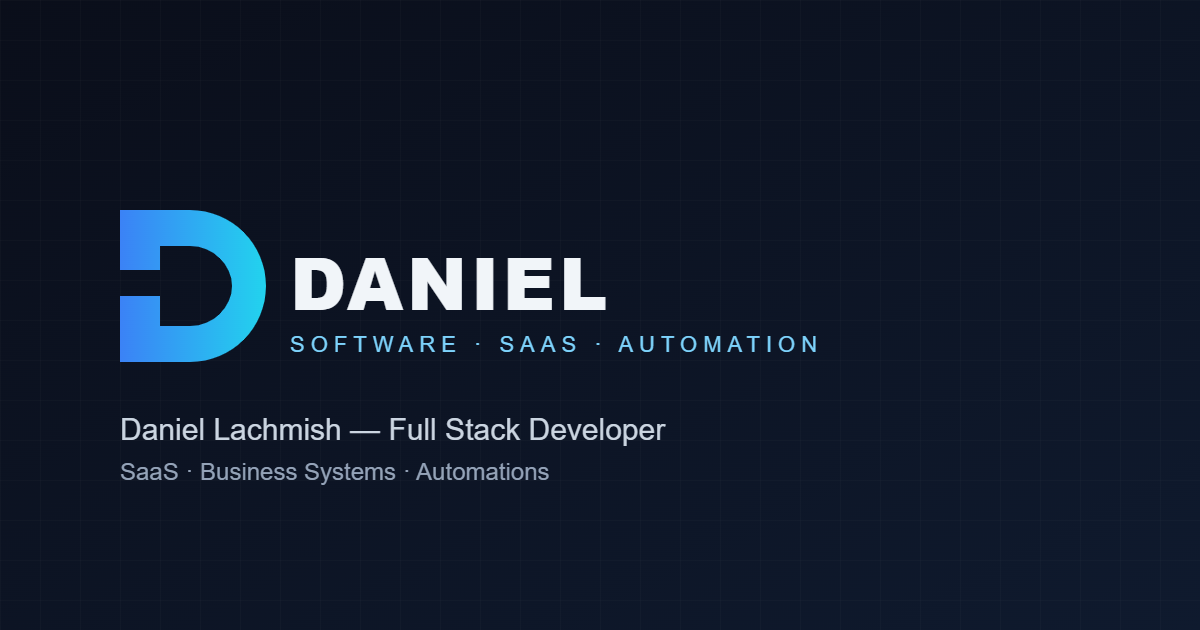
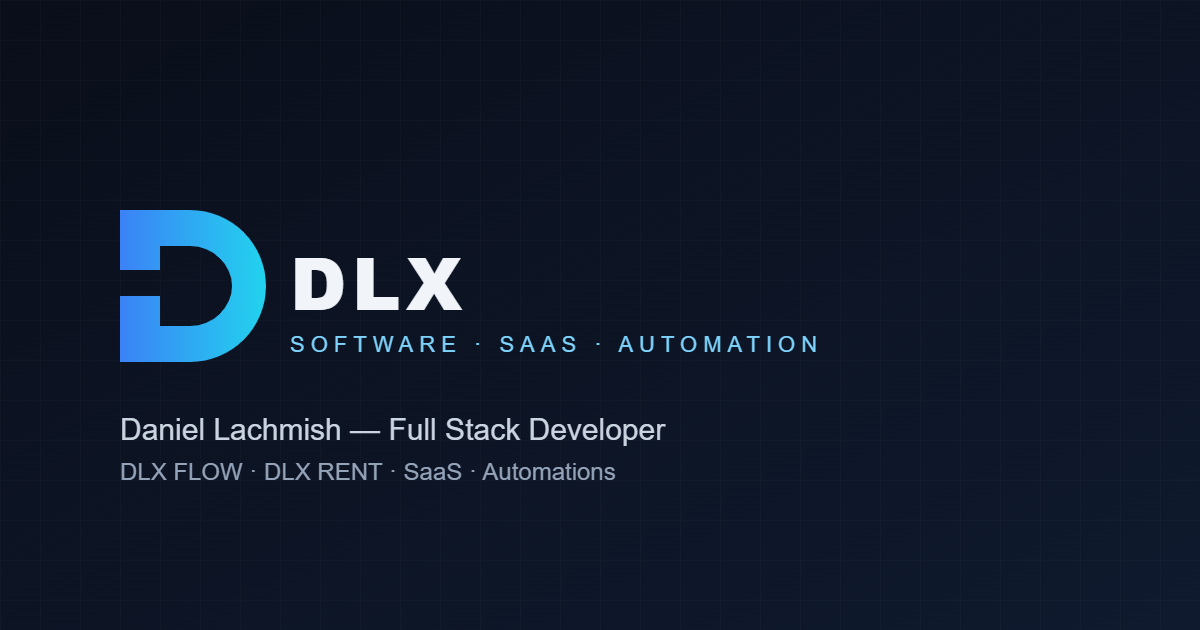
מיתוג מחדש ל-DLX: DLX FLOW ו-DLX RENT
- המותג באתר: DANIEL → DLX (לוגו, כותרת, OG, פוטר, מדיניות פרטיות).
  Daniel Lachmish נשאר כשם המייסד; Schema.org: Person שעובד ב-DLX.
- אלדין → DLX FLOW.
- נוסף DLX RENT (ניהול השכרת רכב) עם קישור ל-rentcore.co.il —
  התיאור לקוח רק מהאתר הפומבי של המערכת; בלי טכנולוגיות (לא פורסמו),
  והמודאל מסתיר את סעיף הטכנולוגיות כשאין.
- עליי: משפט שמסביר את שיטת השמות של DLX.
- תמונת שיתוף חדשה (DLX) + ?v=2 כדי לרענן מטמון ברשתות; ?v=5 לקבצים.

Changed region(s): [[0.2775, 0.3921, 0.5242, 0.5127], [0.0925, 0.7238, 0.5242, 0.7841]]

diff --git a/index.html b/index.html
@@ -3,34 +3,34 @@
 <head>
 <meta charset="UTF-8">
 <meta name="viewport" content="width=device-width, initial-scale=1.0">
-<title>Daniel Lachmish | פיתוח מערכות SaaS, מערכות עסקיות ואוטומציות</title>
-<meta name="description" content="Daniel Lachmish — מפתח Full Stack שבונה מערכות SaaS, מערכות עסקיות ואוטומציות לעסקים. פתרונות תוכנה שמחברים בין טכנולוגיה לתוצאות עסקיות.">
-<meta name="keywords" content="פיתוח תוכנה, מערכות SaaS, מערכות עסקיות, אוטומציות, Full Stack Developer, פיתוח אתרים, אינטגרציות">
+<title>DLX | פיתוח מערכות SaaS, מערכות עסקיות ואוטומציות — Daniel Lachmish</title>
+<meta name="description" content="DLX — מערכות תוכנה לעסקים מאת Daniel Lachmish: מערכות SaaS, מערכות עסקיות, אתרים ואוטומציות, כולל DLX FLOW ו-DLX RENT.">
+<meta name="keywords" content="DLX, DLX FLOW, DLX RENT, פיתוח תוכנה, מערכות SaaS, מערכות עסקיות, אוטומציות, Full Stack Developer, פיתוח אתרים, אינטגרציות">
 <meta name="author" content="Daniel Lachmish">
 <link rel="canonical" href="https://danielachmish.com/">
 
 <!-- Open Graph -->
 <meta property="og:type" content="website">
 <meta property="og:locale" content="he_IL">
-<meta property="og:title" content="Daniel Lachmish | פיתוח מערכות SaaS, מערכות עסקיות ואוטומציות">
+<meta property="og:title" content="DLX | פיתוח מערכות SaaS, מערכות עסקיות ואוטומציות">
 <meta property="og:description" content="אני בונה מערכות תוכנה שהופכות תהליכים מורכבים לפשוטים יותר. SaaS, מערכות עסקיות, אתרים ואוטומציות.">
-<meta property="og:image" content="https://danielachmish.com/assets/og-image.png">
+<meta property="og:image" content="https://danielachmish.com/assets/og-image.png?v=2">
 <meta property="og:image:width" content="1200">
 <meta property="og:image:height" content="630">
 <meta property="og:url" content="https://danielachmish.com/">
-<meta property="og:site_name" content="DANIEL">
+<meta property="og:site_name" content="DLX">
 
 <!-- Twitter -->
 <meta name="twitter:card" content="summary_large_image">
-<meta name="twitter:title" content="Daniel Lachmish | SaaS · מערכות עסקיות · אוטומציות">
+<meta name="twitter:title" content="DLX | SaaS · מערכות עסקיות · אוטומציות">
 <meta name="twitter:description" content="אני בונה מערכות תוכנה שהופכות תהליכים מורכבים לפשוטים יותר.">
-<meta name="twitter:image" content="https://danielachmish.com/assets/og-image.png">
+<meta name="twitter:image" content="https://danielachmish.com/assets/og-image.png?v=2">
 
 <link rel="icon" type="image/svg+xml" href="assets/favicon.svg">
 <link rel="preconnect" href="https://fonts.googleapis.com">
 <link rel="preconnect" href="https://fonts.gstatic.com" crossorigin>
 <link href="https://fonts.googleapis.com/css2?family=Rubik:wght@400;500;600;700;800&display=swap" rel="stylesheet">
-<link rel="stylesheet" href="css/style.css?v=4">
+<link rel="stylesheet" href="css/style.css?v=5">
 <noscript><style>.reveal{ opacity: 1 !important; transform: none !important; }</style></noscript>
 
 <script type="application/ld+json">
@@ -38,8 +38,16 @@
   "@context": "https://schema.org",
   "@type": "Person",
   "name": "Daniel Lachmish",
-  "alternateName": "DANIEL",
   "jobTitle": "Full Stack Developer",
+  "worksFor": {
+    "@type": "Organization",
+    "name": "DLX",
+    "url": "https://danielachmish.com/",
+    "owns": [
+      { "@type": "SoftwareApplication", "name": "DLX FLOW", "applicationCategory": "BusinessApplication" },
+      { "@type": "SoftwareApplication", "name": "DLX RENT", "applicationCategory": "BusinessApplication", "url": "https://rentcore.co.il/" }
+    ]
+  },
   "description": "מפתח Full Stack המתמחה בבניית מערכות SaaS, מערכות עסקיות ואוטומציות.",
   "url": "https://danielachmish.com/",
   "knowsAbout": ["SaaS", "ASP.NET Core", "React", "Python", "FastAPI", "Node.js", "Java", "Spring Boot", "PostgreSQL", "SQL Server", "MongoDB", "Docker", "REST APIs", "Automation"]
@@ -56,7 +64,7 @@
 <header class="site-header" id="siteHeader">
   <div class="scroll-progress" aria-hidden="true"></div>
   <div class="container header-inner">
-    <a href="#hero" class="logo" aria-label="DANIEL — עמוד הבית">
+    <a href="#hero" class="logo" aria-label="DLX — עמוד הבית">
       <svg class="logo-mark" viewBox="0 0 64 64" aria-hidden="true">
         <defs>
           <linearGradient id="lg1" x1="0%" y1="0%" x2="100%" y2="100%">
@@ -68,7 +76,7 @@
         <path d="M20 14 H33 C42.5 14 50 21.5 50 32 C50 42.5 42.5 50 33 50 H20 V33 H28 V42 H33 C37.5 42 42 38 42 32 C42 26 37.5 22 33 22 H28 V28 H20 Z" fill="url(#lg1)"/>
       </svg>
       <span class="logo-text-wrap">
-        <span class="logo-word">DANIEL</span>
+        <span class="logo-word">DLX</span>
         <span class="logo-sub">SOFTWARE · SAAS · AUTOMATION</span>
       </span>
     </a>
@@ -99,7 +107,7 @@
 <div class="mobile-nav" id="mobileNav">
   <div class="mobile-nav-panel">
     <div class="mobile-nav-top">
-      <span class="logo-word">DANIEL</span>
+      <span class="logo-word">DLX</span>
       <button class="close-btn" id="navClose" aria-label="סגירת תפריט">
         <svg viewBox="0 0 24 24" width="18" height="18" fill="none" stroke="currentColor" stroke-width="2" stroke-linecap="round"><path d="M18 6 6 18M6 6l12 12"/></svg>
       </button>
@@ -366,7 +374,7 @@
         <h4>מה נבנה</h4>
         <p id="modalBuilt"></p>
       </div>
-      <div class="modal-section">
+      <div class="modal-section" id="modalStackSection">
         <h4>טכנולוגיות</h4>
         <div class="project-stack" id="modalStack"></div>
       </div>
@@ -415,6 +423,7 @@
         <p>אני Daniel Lachmish, מפתח Full Stack המתמחה בבניית מערכות SaaS, מערכות עסקיות ואוטומציות.</p>
         <p>אני משלב בין פיתוח תוכנה לבין הבנה מעשית של תהליכים עסקיים, תפעול, מכירות, מלאי, הזמנות, גבייה ושירות.</p>
         <p>הגישה שלי היא לא רק לבנות מערכת שעובדת, אלא לבנות כלי שמפשט את העבודה, מצמצם טעויות ומאפשר לעסק לגדול.</p>
+        <p><b>DLX</b> הוא המותג שתחתיו אני בונה את המערכות שלי. כל מערכת נקראת DLX ואחריו התחום שלה, כמו <b dir="ltr">DLX FLOW</b> להזמנות ומשלוחים ו-<b dir="ltr">DLX RENT</b> לניהול השכרת רכב.</p>
 
         <h3 style="margin: 36px 0 18px; font-size:1.15rem;">למה לעבוד איתי</h3>
         <div class="why-grid">
@@ -556,7 +565,7 @@
             <path d="M20 14 H33 C42.5 14 50 21.5 50 32 C50 42.5 42.5 50 33 50 H20 V33 H28 V42 H33 C37.5 42 42 38 42 32 C42 26 37.5 22 33 22 H28 V28 H20 Z" fill="url(#lg1)"/>
           </svg>
           <span class="logo-text-wrap">
-            <span class="logo-word">DANIEL</span>
+            <span class="logo-word">DLX</span>
             <span class="logo-sub">SOFTWARE · SAAS · AUTOMATION</span>
           </span>
         </a>
@@ -578,7 +587,7 @@
     </div>
 
     <div class="footer-bottom">
-      <span>© <span id="year"></span> DANIEL · כל הזכויות שמורות</span>
+      <span>© <span id="year"></span> DLX · Daniel Lachmish · כל הזכויות שמורות</span>
       <a href="privacy.html">מדיניות פרטיות</a>
     </div>
   </div>
@@ -589,9 +598,9 @@
 </button>
 
 <!-- ?v= forces browsers to fetch fresh files after each release; bump it when these files change -->
-<script src="js/config.js?v=4"></script>
-<script src="js/projects-data.js?v=4"></script>
-<script src="js/main.js?v=4"></script>
-<script type="module" src="js/3d/hero.js?v=4"></script>
+<script src="js/config.js?v=5"></script>
+<script src="js/projects-data.js?v=5"></script>
+<script src="js/main.js?v=5"></script>
+<script type="module" src="js/3d/hero.js?v=5"></script>
 </body>
 </html>

diff --git a/js/projects-data.js b/js/projects-data.js
@@ -10,8 +10,22 @@
  */
 window.PROJECTS_DATA = [
   {
-    kicker: "מערכת עסקית · הזמנות ומשלוחים",
-    name: "אלדין – ניהול הזמנות ומשלוחים",
+    kicker: "DLX · ניהול השכרת רכב",
+    name: "DLX RENT",
+    type: "מערכת לניהול חברות השכרת רכב קטנות ובינוניות — לקוחות, רכבים, השכרות, חוזים, תשלומים ותחזוקה בתהליך אחד",
+    problem: "חברות השכרה עובדות עם אוסף של קבצים, מסמכים ותזכורות מפוזרות: הקלדות כפולות, מסמכים שהולכים לאיבוד וחוסר תמונה ברורה של מי יוצא, מי חוזר ומה עדיין פתוח.",
+    built: "מערכת שבה כל השכרה עוברת תהליך אחד — פתיחה, מסירה, החלפת רכב, הארכה והחזרה. תיק לקוח מלא, ניהול צי (זמינות, מסמכים, קילומטראז׳, נזקים וטיפולים), תשלומים ופיקדונות שמחוברים להשכרה, חוזים וחתימות דיגיטליות, הרשאות לפי סניף ותפקיד, ולוח בקרה יומי. עובדת מכל מכשיר, ללא התקנה.",
+    stack: [],
+    live: "https://rentcore.co.il",
+    mock: {
+      kind: "rows",
+      title: "היום בסניף",
+      items: [["מסירת רכב", "מוכן", "ok"], ["החזרת רכב", "בדרך", "new"], ["טיפול תקופתי", "לתיאום", "wait"]]
+    }
+  },
+  {
+    kicker: "DLX · הזמנות ומשלוחים",
+    name: "DLX FLOW",
     type: "מערכת MVP מלאה לניהול תור עבודה, סטטוסי הזמנה ומשלוחים, עם אינטגרציה לספק ERP (Sigma) ולחברת שילוח (UPS)",
     problem: "תהליך טיפול בהזמנות התנהל ידנית בין מערכת ה-ERP הארגונית לבין חברת השילוח, בלי תור עדיפויות ברור, בלי סטטוס אחיד לכל בעלי התפקידים ובלי קישור אוטומטי בין מספרי מעקב למספר הזמנות.",
     built: "מערכת עם תפקידי סוכן/מחסן/מנהל/אדמין, תור עדיפויות עם בקשות דחיפות ואישור מנהל, מנוע סטטוסים עם claim אטומי שמונע התחלת טיפול כפולה, קליטת Webhook מ-UPS עם קישור אוטומטי של מספרי מעקב להזמנות, ועדכונים בזמן אמת בין כל המסכים ב-WebSocket. פרוסה וחיה בפועל.",

diff --git a/privacy.html b/privacy.html
@@ -3,8 +3,8 @@
 <head>
 <meta charset="UTF-8">
 <meta name="viewport" content="width=device-width, initial-scale=1.0">
-<title>מדיניות פרטיות | DANIEL</title>
-<meta name="description" content="מדיניות הפרטיות של אתר DANIEL — כיצד נאספים ונשמרים פרטים שנמסרים דרך טופס יצירת הקשר.">
+<title>מדיניות פרטיות | DLX</title>
+<meta name="description" content="מדיניות הפרטיות של אתר DLX — כיצד נאספים ונשמרים פרטים שנמסרים דרך טופס יצירת הקשר.">
 <link rel="icon" type="image/svg+xml" href="assets/favicon.svg">
 <link rel="preconnect" href="https://fonts.googleapis.com">
 <link rel="preconnect" href="https://fonts.gstatic.com" crossorigin>
@@ -28,7 +28,7 @@
         <path d="M20 14 H33 C42.5 14 50 21.5 50 32 C50 42.5 42.5 50 33 50 H20 V33 H28 V42 H33 C37.5 42 42 38 42 32 C42 26 37.5 22 33 22 H28 V28 H20 Z" fill="url(#lg1)"/>
       </svg>
       <span class="logo-text-wrap">
-        <span class="logo-word">DANIEL</span>
+        <span class="logo-word">DLX</span>
         <span class="logo-sub">SOFTWARE · SAAS · AUTOMATION</span>
       </span>
     </a>
@@ -41,7 +41,7 @@
   <h1 style="font-size:2rem; margin-bottom:24px;">מדיניות פרטיות</h1>
 
   <div style="color:var(--text-dim); font-size:1.02rem; display:flex; flex-direction:column; gap:18px;">
-    <p>מדיניות זו מסבירה כיצד נאספים ונשמרים פרטים שנמסרים דרך טופס יצירת הקשר באתר DANIEL (להלן "האתר"), בבעלות Daniel Lachmish.</p>
+    <p>מדיניות זו מסבירה כיצד נאספים ונשמרים פרטים שנמסרים דרך טופס יצירת הקשר באתר DLX (להלן "האתר"), בבעלות Daniel Lachmish.</p>
 
     <h3>אילו פרטים נאספים</h3>
     <p>בעת מילוי טופס יצירת הקשר נאספים הפרטים שנמסרים באופן יזום: שם מלא, שם חברה/עסק, אימייל, טלפון, סוג הפרויקט, תקציב משוער ותיאור הפרויקט.</p>
@@ -61,7 +61,7 @@
 
 <footer class="site-footer">
   <div class="container footer-bottom">
-    <span>© <span id="year"></span> DANIEL · כל הזכויות שמורות</span>
+    <span>© <span id="year"></span> DLX · Daniel Lachmish · כל הזכויות שמורות</span>
     <a href="index.html">חזרה לעמוד הבית</a>
   </div>
 </footer>

diff --git a/js/main.js b/js/main.js
@@ -240,7 +240,9 @@
           '<span class="project-kicker">' + p.kicker + '</span>' +
           '<h3>' + p.name + '</h3>' +
           '<p class="project-row"><b>סוג המערכת:</b> ' + p.type + '</p>' +
-          '<div class="project-stack">' + p.stack.map(function (s) { return "<span>" + s + "</span>"; }).join("") + '</div>' +
+          (p.stack && p.stack.length
+            ? '<div class="project-stack">' + p.stack.map(function (s) { return "<span>" + s + "</span>"; }).join("") + '</div>'
+            : '') +
           '<div class="project-footer">' +
             '<button type="button" class="btn btn-ghost btn-sm project-detail-btn" data-index="' + i + '">לפרטים</button>' +
             (p.live ? '<a href="' + p.live + '" target="_blank" rel="noopener noreferrer" class="btn btn-ghost btn-sm">צפייה חיה ↗</a>' : '') +
@@ -262,6 +264,7 @@
   var modalProblem = document.getElementById("modalProblem");
   var modalBuilt = document.getElementById("modalBuilt");
   var modalStack = document.getElementById("modalStack");
+  var modalStackSection = document.getElementById("modalStackSection");
   var modalLive = document.getElementById("modalLive");
   var lastFocusedEl = null;
 
@@ -272,7 +275,9 @@
     modalTitle.textContent = p.name;
     modalProblem.textContent = p.problem;
     modalBuilt.textContent = p.built;
-    modalStack.innerHTML = p.stack.map(function (s) { return "<span>" + s + "</span>"; }).join("");
+    var hasStack = !!(p.stack && p.stack.length);
+    modalStack.innerHTML = hasStack ? p.stack.map(function (s) { return "<span>" + s + "</span>"; }).join("") : "";
+    modalStackSection.hidden = !hasStack;
     if (p.live) {
       modalLive.href = p.live;
       modalLive.hidden = false;

diff --git a/js/3d/shapes.js b/js/3d/shapes.js
@@ -1,7 +1,7 @@
 /**
  * shapes.js — the three "states" every particle moves between:
  *   chaos  → scattered data
- *   logo   → the DANIEL "D" monogram (same path as the SVG logo)
+ *   logo   → the DLX "D" monogram (same path as the SVG logo)
  *   system → an abstract dashboard (cards, chart bars, rows)
  * Each function returns a Float32Array of xyz triplets, n points long.
  */

diff --git a/css/style.css b/css/style.css
@@ -1,5 +1,5 @@
 /* ==========================================================================
-   DANIEL — Personal / Portfolio site
+   DLX (Daniel Lachmish) — Personal / Portfolio site
    Design system: dark graphite-blue, electric-blue/turquoise accent
    ========================================================================== */
 

diff --git a/README.md b/README.md
@@ -1,4 +1,6 @@
-# DANIEL — אתר אישי (Daniel Lachmish)
+# DLX — אתר אישי (Daniel Lachmish)
+
+המותג הוא **DLX**. כל מערכת נקראת DLX + התחום שלה (למשל DLX FLOW, DLX RENT).
 
 אתר One Page מקצועי, RTL מלא, ל-Daniel Lachmish — מפתח Full Stack המתמחה במערכות SaaS,
 מערכות עסקיות ואוטומציות. האתר בנוי כ-HTML/CSS/JS סטטי (ללא framework, ללא build step),
